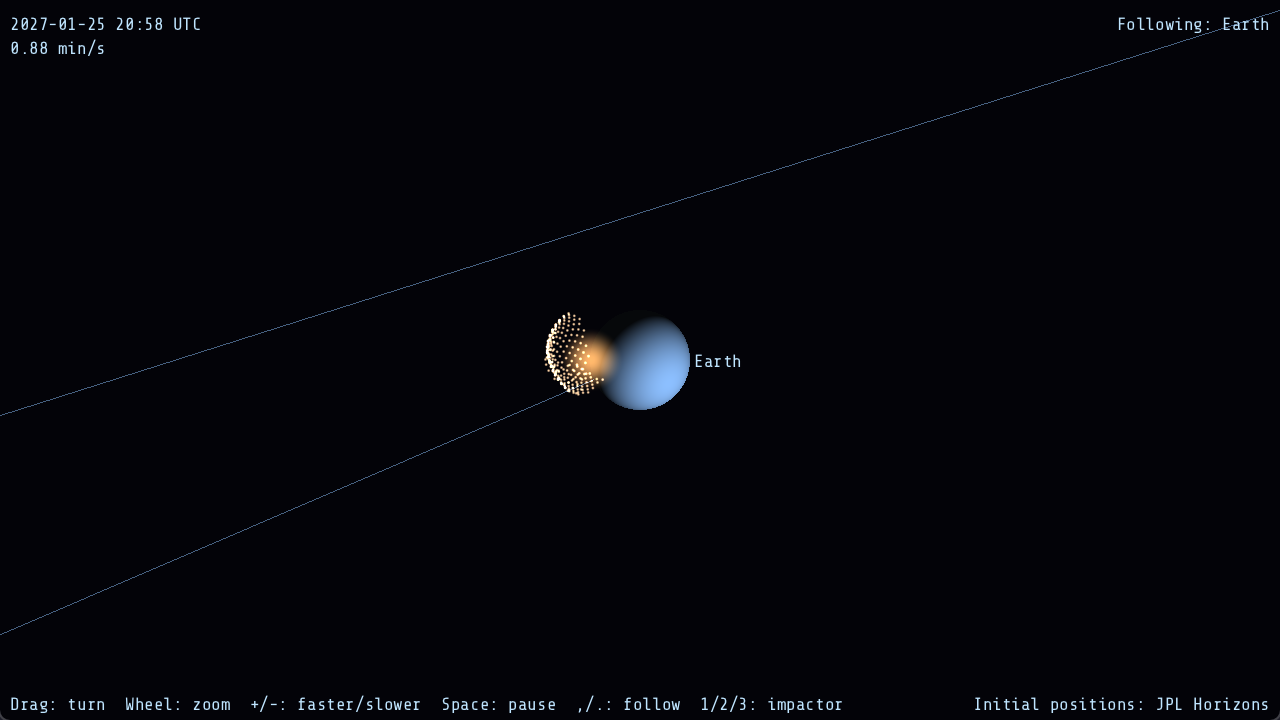
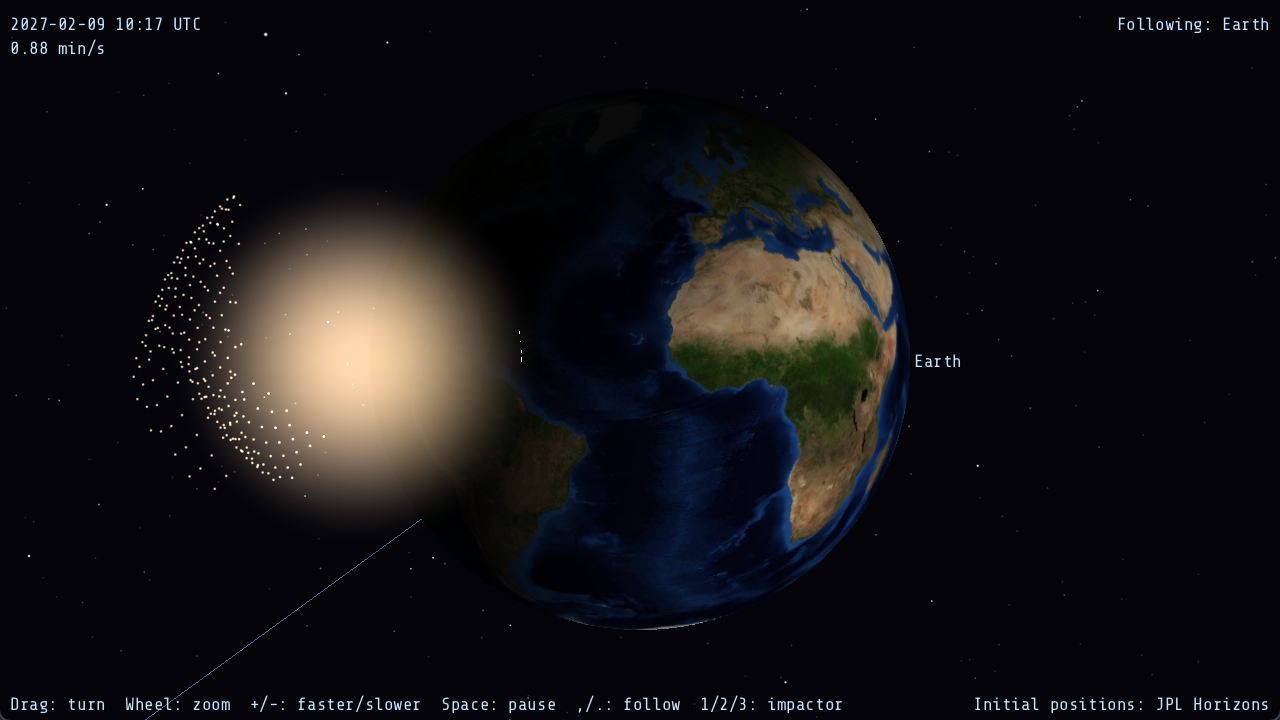
REFACTOR: the README shows the new graphics
New pictures, the maps, the rings and the sky among the features and the methods, their references and the credits of the maps. No code changes.

Changed region(s): [[0.125, 0.2139, 0.75, 0.8861], [0.0625, 0.0306, 0.0938, 0.0611]]

diff --git a/README.md b/README.md
@@ -6,9 +6,13 @@ positions of the planets today, taken from NASA JPL Horizons, integrates Newtoni
 symplectic scheme, and lets you throw asteroids and protoplanets at the planets to watch them merge
 or shatter according to published scaling laws for planetary collisions.
 
-![The solar system as it is today, with the paths of the next year](docs/images/system.png)
+![The Earth wrapped in NASA's Blue Marble, lit by the Sun and tilted on its axis](docs/images/earth.png)
+
+![Saturn and its rings, seen from their unlit side, with the shadow of the planet across them](docs/images/saturn.png)
 
 ![A giant impact on the Earth: fireball, plume of ejecta and slow motion](docs/images/impact.png)
+
+![The solar system as it is today, with the paths of the next year](docs/images/system.png)
 
 ## What it does
 
@@ -31,6 +35,17 @@ or shatter according to published scaling laws for planetary collisions.
 - **A camera that goes from 100 AU to the surface.** Orbit, zoom and follow any body down to two
   of its radii; bodies are spheres lit by the Sun, with a day side, a night side and a limb-darkened
   star.
+- **Real surfaces that really turn.** The planets are wrapped in maps made from spacecraft
+  imagery, downloaded from NASA on the first launch and cached on disk, and each one turns about
+  its true pole at its true rate, following the rotational elements of the IAU: the Earth shows the
+  right continent to the Sun at the right hour.
+- **Saturn's rings as a layer of particles.** The C ring, the B ring, the Cassini Division and the
+  A ring, each with its own optical depth: seen from the sunlit side they shine by reflected light,
+  from the other side by the light that filters through them, so the dense B ring turns from the
+  brightest to the darkest. The planet casts its shadow on them and hides them where they pass
+  behind it.
+- **A sky of stars** behind everything, generated from a fixed seed with the brightness
+  distribution of a uniform universe.
 
 ## Built at a low level
 
@@ -43,6 +58,9 @@ Everything below the window is written in this repository. The only runtime depe
 | Camera | No matrix library. The look-at basis and the perspective projection are computed on the CPU in double precision, and the GPU receives clip coordinates. At solar-system scale a planet is 10⁻⁵ AU wide one AU from the origin: single-precision world coordinates would make it jitter. |
 | Spheres | Impostors: each body is a camera-facing quad of two triangles; the fragment shader rebuilds the normal of the sphere, `(x, y, √(1 − x² − y²))`, and shades it with Lambert's law, or with linear limb darkening for a star. A planet costs six vertices at any zoom. |
 | Lines | Predicted paths are line strips clipped by OpenGL in homogeneous coordinates, before the perspective division, so a path that passes behind the eye is cut and never drawn mirrored. |
+| Surface maps | Equirectangular textures decoded with `stb_image` and sampled in the fragment shader from the normal of the impostor, turned into the frame of the body: no mesh, no texture coordinates. Explicit gradients (`textureGrad`) remove the seam where the longitude wraps. Large maps are assembled on the GPU from WMTS tiles. |
+| Rings | Another impostor: for every pixel the shader intersects the line of sight with the plane of the rings, finds the band at that radius, and tests the point against the sphere of the planet and against the cylinder of its shadow. Edges are anti-aliased with screen-space derivatives. |
+| Map downloads | Decorators around one interface: an HTTP client, retries, a disk cache. Downloads run on daemon threads and are handed to the OpenGL thread through a queue drained before each frame. |
 | Light effects | Additive blending with the depth test on and depth writes off: glows are hidden by nearer bodies and hide nothing. |
 | Text | A font atlas baked at start-up with `stb_truetype`; own layout for the head-up display and the labels that follow the bodies. |
 | Depth range | The near plane follows the camera, so that the same lens frames Neptune's orbit and a crater. |
@@ -63,6 +81,9 @@ Everything below the window is written in this repository. The only runtime depe
 | Fragments | Rank-size power law for the masses; ejection just above the escape speed, faster for smaller fragments (`v ∝ m^(−1/6)`); positions and velocities chosen so that mass, momentum and centre of mass are conserved exactly | [9] [10] [11] |
 | Directions of ejecta | A Fibonacci spiral on a spherical cap: equal-area rings turned by the golden angle | [12] |
 | Fireball and plume | Radius scaled as the cube root of the impact energy over the gravitational binding energy `(3/5) G M² / R`; embers integrated by leapfrog in the gravity of the body | — |
+| Rotation | IAU pole (right ascension, declination) and prime meridian `W = W₀ + Ẇ d`, turned from the equatorial to the ecliptic frame; the orientation at a date is a rotation of the prime meridian about the pole by Rodrigues' formula | [14] |
+| Rings | A plane-parallel layer of optical depth `τ`. Opacity along a ray: `1 − e^(−τ/μ)` (Beer–Lambert). Single isotropic scattering: reflected `μ₀/(μ+μ₀) · (1 − e^(−τ(1/μ+1/μ₀)))`, diffusely transmitted `μ₀/(μ−μ₀) · (e^(−τ/μ) − e^(−τ/μ₀))`, with `μ`, `μ₀` the cosines of the viewing and illumination angles | [15] [16] |
+| Star field | Directions uniform on the sphere by Archimedes' hat-box theorem (uniform height, uniform azimuth); fluxes drawn from `N(>S) ∝ S^(−3/2)`, the counts of equal stars filling Euclidean space uniformly, by inverse transform sampling | — |
 | Shading | Lambert's cosine law for reflected light; linear limb darkening `I(μ) = 1 − u(1 − μ)` with `u = 0.6` for the Sun | [13] |
 | Time scales | Julian dates in TDB; UTC obtained with the leap seconds in force since 2017 | — |
 
@@ -177,10 +198,23 @@ several courses to work together:
 12. Á. González, *Measurement of areas on a sphere using Fibonacci and latitude-longitude lattices*,
     Math. Geosci. 42, 49 (2010).
 13. A. N. Cox (ed.), *Allen's Astrophysical Quantities*, 4th ed., Springer (2000).
+14. B. A. Archinal et al., *Report of the IAU Working Group on Cartographic Coordinates and
+    Rotational Elements: 2009*, Celest. Mech. Dyn. Astron. 109, 101 (2011).
+15. S. Chandrasekhar, *Radiative Transfer*, Dover (1960).
+16. D. R. Williams, *Saturnian Rings Fact Sheet*, NASA Goddard Space Flight Center,
+    [nssdc.gsfc.nasa.gov/planetary/factsheet/satringfact.html](https://nssdc.gsfc.nasa.gov/planetary/factsheet/satringfact.html).
 
 ## Credits
 
 - Ephemerides: NASA/JPL-Caltech, Solar System Dynamics group (Horizons).
+- Map of the Earth: NASA Blue Marble (shaded relief and bathymetry), served by
+  [NASA GIBS](https://nasa-gibs.github.io/gibs-api-docs/).
+- Maps of Mercury (MESSENGER MDIS), Mars (Viking MDIM 2.1), the Moon (LRO WAC) and Vesta (Dawn FC):
+  [NASA Solar System Treks](https://trek.nasa.gov/), NASA/JPL-Caltech. These maps and the one of the
+  Earth are downloaded at the first launch and kept in `~/.astronomicalsystem/maps`.
+- Maps of the Sun, Venus, Jupiter, Saturn, Uranus and Neptune:
+  [Solar System Scope](https://www.solarsystemscope.com/textures/), CC BY 4.0, distributed with the
+  application unchanged (see `app/src/main/resources/textures/CREDITS.txt`).
 - [LWJGL 3](https://www.lwjgl.org/) (BSD 3-Clause), with GLFW, OpenGL and Sean Barrett's stb.
 - Font: [Share Tech Mono](https://fonts.google.com/specimen/Share+Tech+Mono) by Carrois Apostrophe,
   SIL Open Font License 1.1 (the licence is next to the font in `app/src/main/resources/fonts`).
